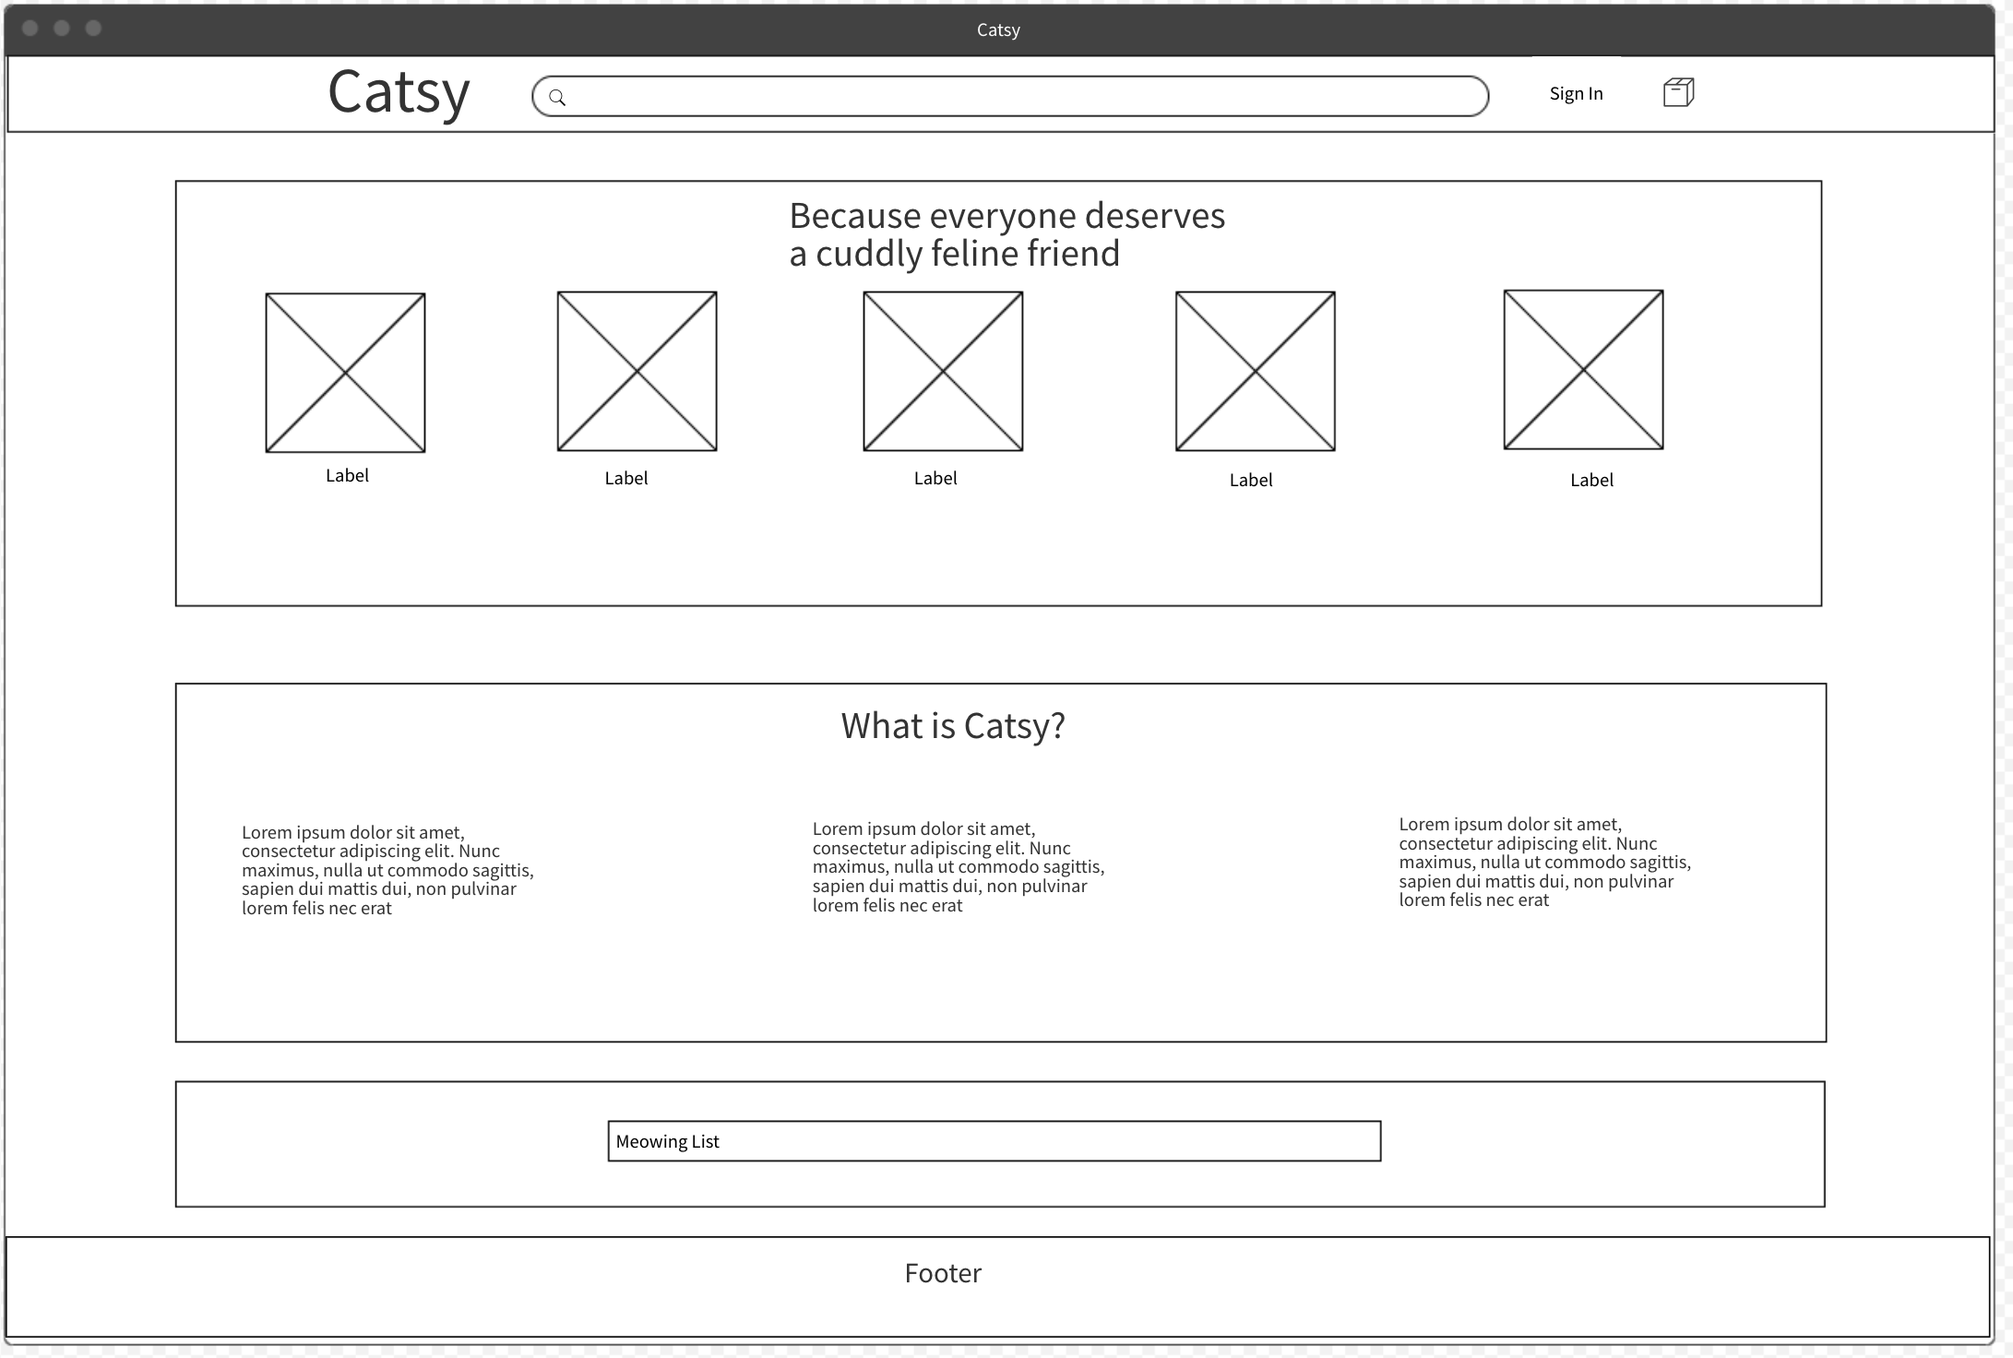
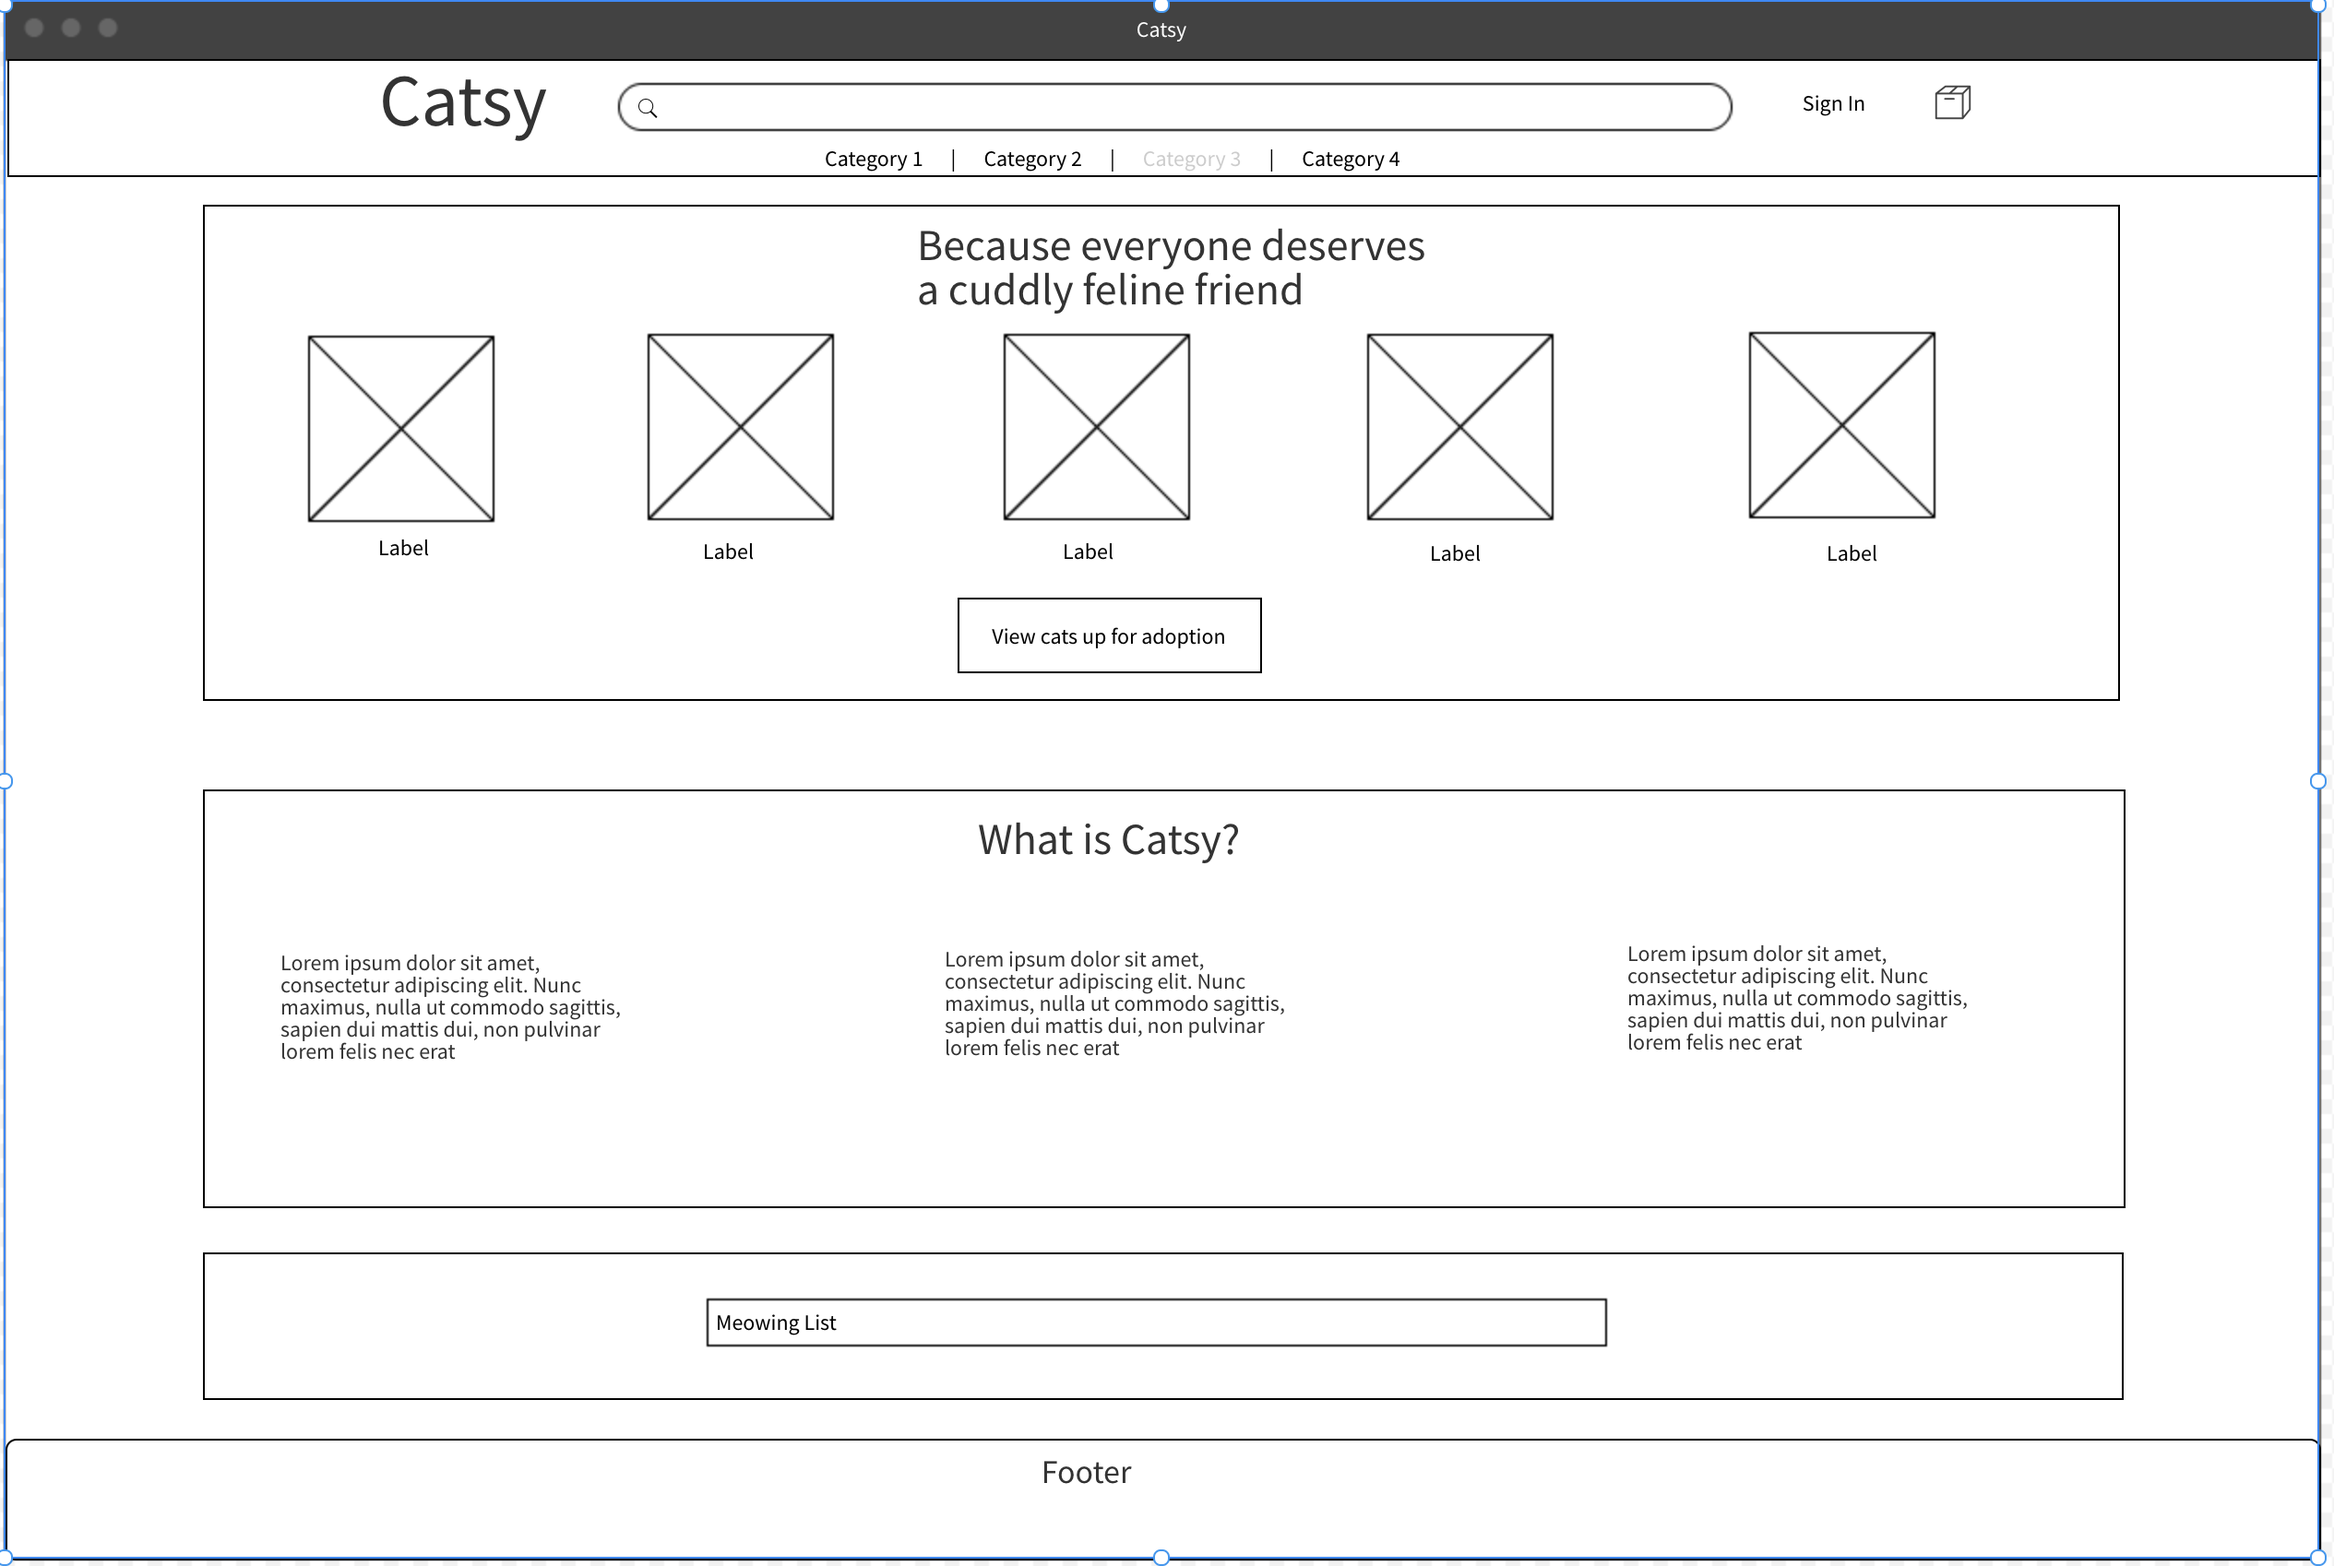
updated routes and added category to diagram

diff --git a/Catsy.wiki/Frontend-Routes.md b/Catsy.wiki/Frontend-Routes.md
@@ -15,15 +15,25 @@ On any page displays a sign up modal form
 ## Root ```/```
 ![alt text](https://github.com/commanderh/catsy/blob/main/diagrams/homepage.png)
 
-## Listings of Category ```/:category```
+
+## Category ```/category/:categoryName```
+Displays cats tied to the specific category
 ![alt text](https://github.com/commanderh/catsy/blob/main/diagrams/catdisplay-page.png)
 
-## Shopping Cart ```/:shopping-cart```
-![alt text](https://github.com/commanderh/catsy/blob/main/diagrams/homepage.png)
-
-## Cat Page ```/:catId```
+## Shopping Cart ```/shopping-cart```
 ![alt text](https://github.com/commanderh/catsy/blob/main/diagrams/shopping-cart.png)
 
+## Cat Page ```/cats/:catId```
+![alt text](https://github.com/commanderh/catsy/blob/main/diagrams/cat-page.png)
 
-## Search ```/:search```
+
+## Search ```/search```
 ![alt text](https://github.com/commanderh/catsy/blob/main/diagrams/search-withresults.png)
+
+**BONUS**
+## Category ```/category```
+Displays a random assortment of cats not tied to any category
+<!-- ![alt text](https://github.com/commanderh/catsy/blob/main/diagrams/catdisplay-page.png) -->
+
+**BONUS**
+## Profile Page ```/user/:userId```
